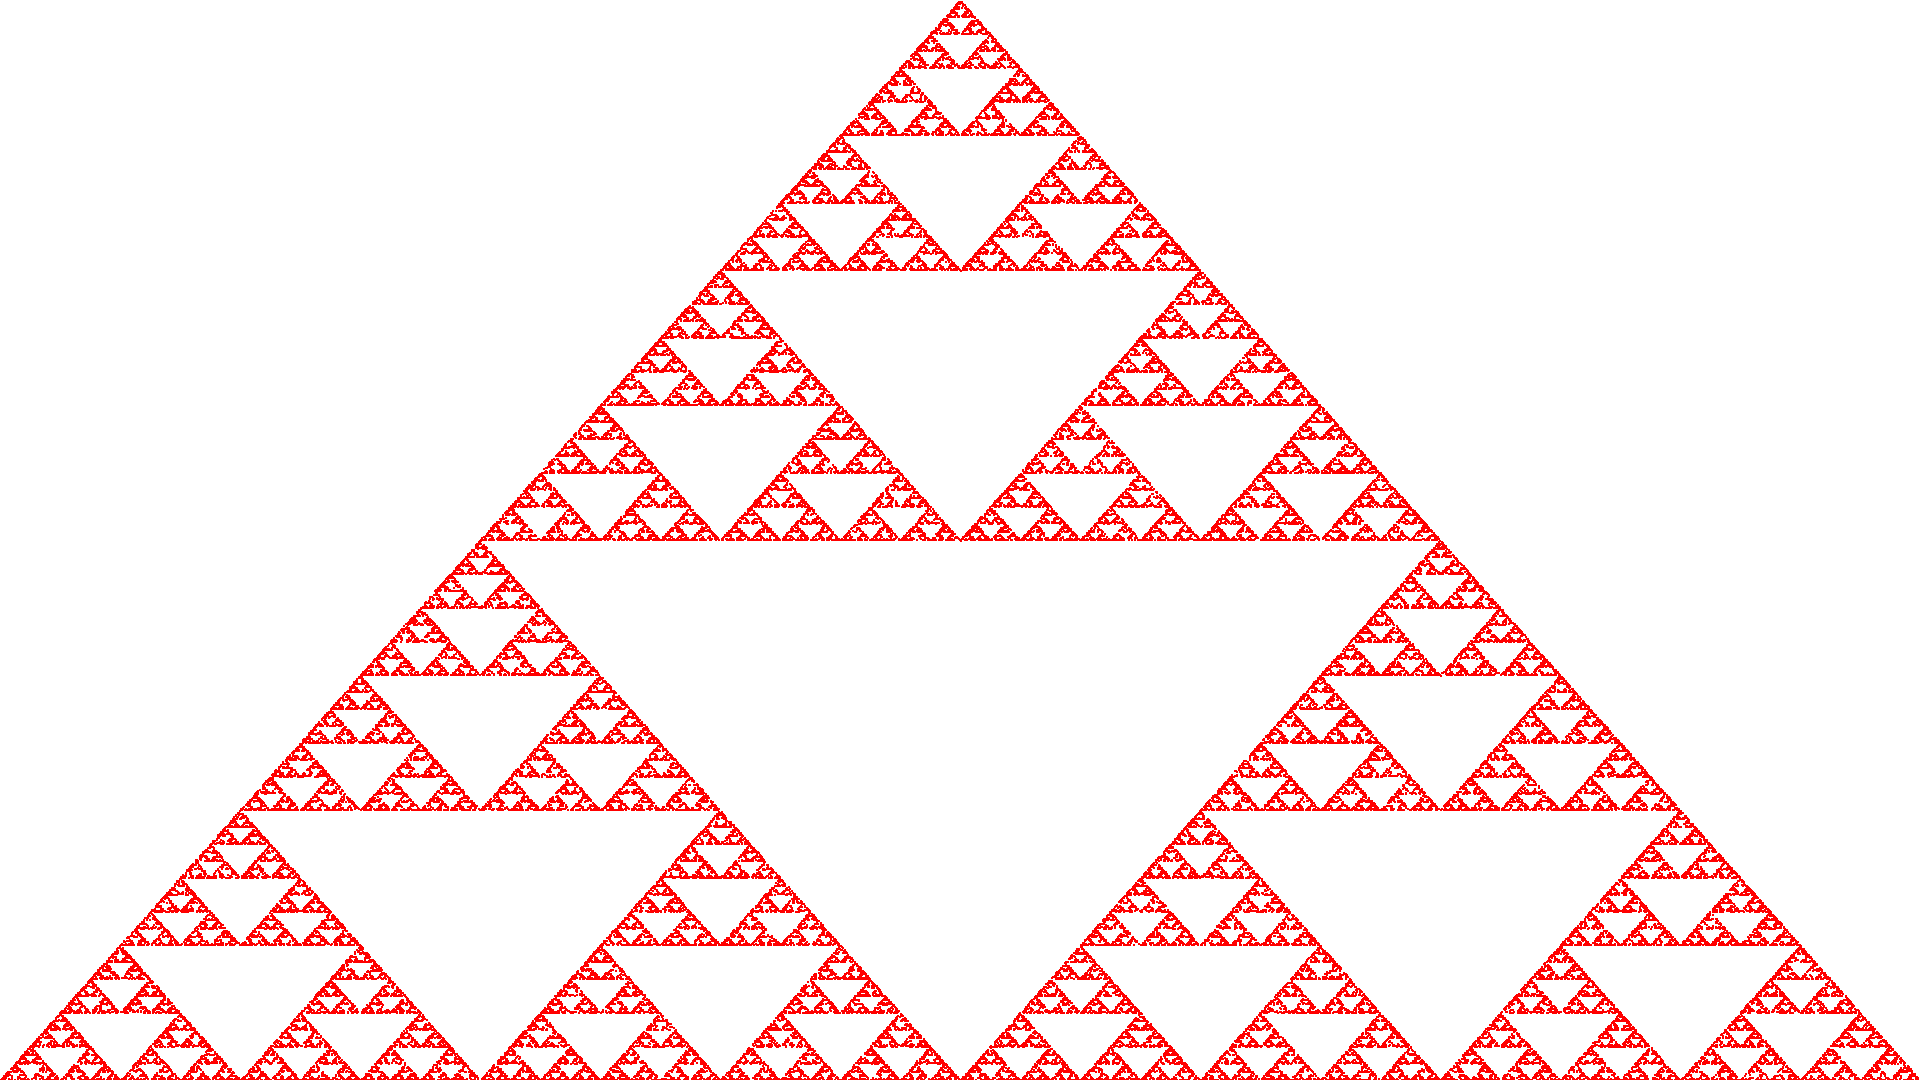
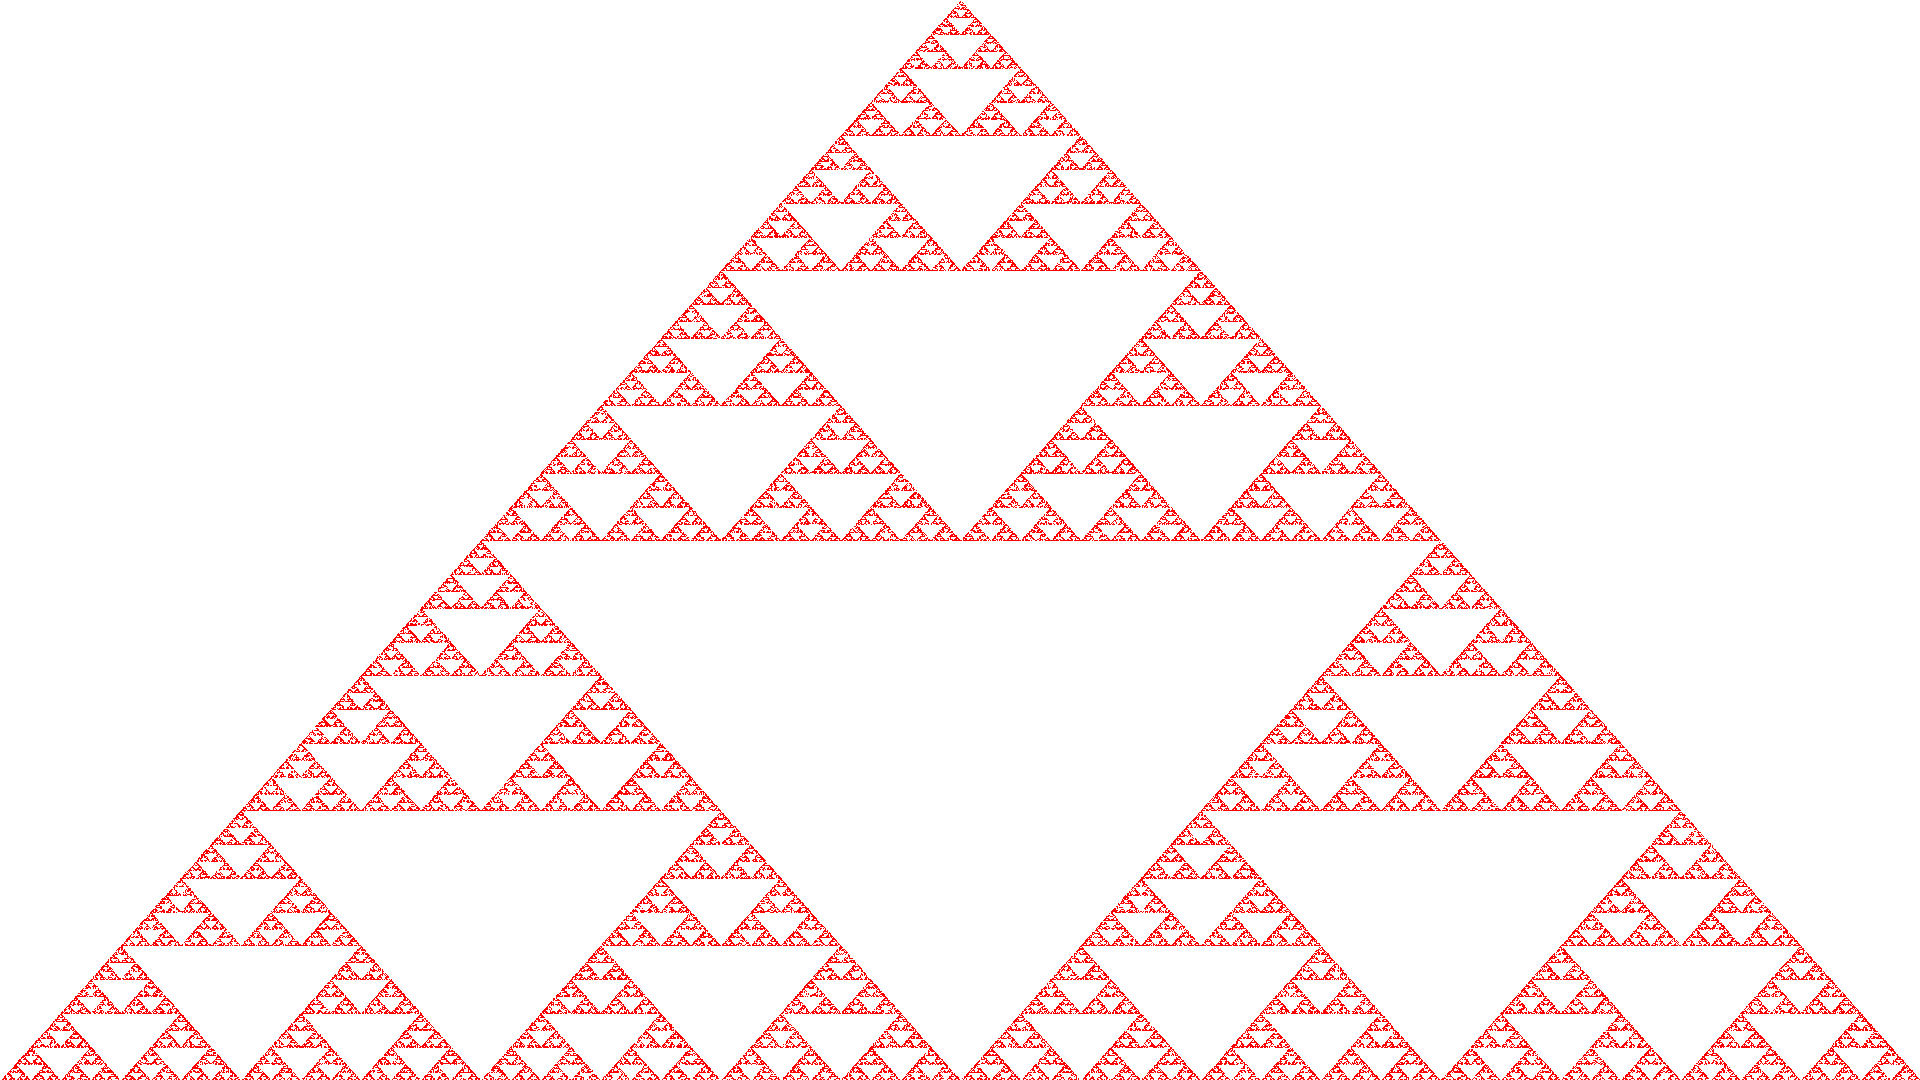
Added new job examples and commands

Changed region(s): [[0.0, 0.0306, 1.0, 1.0]]

diff --git a/src/cli/command/StartCommand.java b/src/cli/command/StartCommand.java
@@ -37,6 +37,11 @@ public class StartCommand implements CLICommand{
         ArrayList<Job> jobs = (ArrayList<Job>) AppConfig.getJobList();
 
         Job job = jobs.get(0);
+        Job job2 = jobs.get(1);
+        Job job3 = jobs.get(2);
+        Job job4 = jobs.get(3);
+
+
         ActiveJob activeJob = new ActiveJob();
 
         activeJob.setActive(true);
@@ -48,8 +53,55 @@ public class StartCommand implements CLICommand{
 
         activeJob.setSection(section);
 
-        FractalWorker fractalWorker = new FractalWorker(activeJob,"");
-        fractalWorker.run();
+
+        ActiveJob activeJob2 = new ActiveJob();
+
+        activeJob2.setActive(true);
+        activeJob2.setJob(job2);
+
+        Section section2 = new Section();
+        section2.setDepth(1);
+        section2.setDots(job2.getA());
+
+        activeJob2.setSection(section2);
+
+
+        ActiveJob activeJob3 = new ActiveJob();
+
+        activeJob3.setActive(true);
+        activeJob3.setJob(job3);
+
+        Section section3 = new Section();
+        section3.setDepth(1);
+        section3.setDots(job3.getA());
+
+        activeJob3.setSection(section3);
+
+
+
+        ActiveJob activeJob4 = new ActiveJob();
+
+        activeJob4.setActive(true);
+        activeJob4.setJob(job4);
+
+        Section section4 = new Section();
+        section4.setDepth(1);
+        section4.setDots(job4.getA());
+
+        activeJob4.setSection(section4);
+
+
+
+
+        FractalWorker fractalWorker1 = new FractalWorker(activeJob,"");
+        FractalWorker fractalWorker2 = new FractalWorker(activeJob2,"");
+        FractalWorker fractalWorker3 = new FractalWorker(activeJob3,"");
+        FractalWorker fractalWorker4 = new FractalWorker(activeJob4,"");
+
+        fractalWorker1.run();
+        fractalWorker2.run();
+        fractalWorker3.run();
+        fractalWorker4.run();
 
     }
 }

diff --git a/src/servent/workers/FractalWorker.java b/src/servent/workers/FractalWorker.java
@@ -63,8 +63,8 @@ public class FractalWorker implements Runnable, Cancellable {
             Dot randomDot = dotsList.get(rand.nextInt(dotsList.size()));
 
             // (1-l)A + (l)B    //l=distance
-            int newX = (int) ((1-p)*currentDot.getX() + p*randomDot.getX());
-            int newY = (int) ((1-p)*currentDot.getY() + p*randomDot.getY());
+            int newX = (int) ((1-p)*randomDot.getX() + p*currentDot.getX());
+            int newY = (int) ((1-p)*randomDot.getY() + p*currentDot.getY());
 
             currentDot.setX(newX);
             currentDot.setY(newY);
@@ -73,7 +73,7 @@ public class FractalWorker implements Runnable, Cancellable {
 
 
 
-            if(tempCounter==100000)stop();
+            if(tempCounter==200000)stop();
             tempCounter++;
 
         }
@@ -94,7 +94,7 @@ public class FractalWorker implements Runnable, Cancellable {
         graphics2D.fillRect ( 0,0,1920,1080 );
         graphics2D.setPaint ( Color.RED );
         for(Dot d:filledDotList){
-            graphics2D.drawRect ( d.getX(), d.getY(), 1, 1 );
+            graphics2D.drawOval ( d.getX(), d.getY(), 1, 1 );
         }
 
         graphics2D.dispose ();

diff --git a/src/cli/CLIParser.java b/src/cli/CLIParser.java
@@ -39,7 +39,12 @@ public class CLIParser implements Runnable, Cancellable {
 		commandList.add(new InfoCommand());
 		commandList.add(new PauseCommand());
 		commandList.add(new StopCommand(this, listener));
+
 		commandList.add(new StartCommand());
+		commandList.add(new StatusCommand());
+		commandList.add(new ResultCommand());
+		commandList.add(new StopFractalCommand());
+		commandList.add(new QuitCommand());
 	}
 	
 	@Override

diff --git a/src/cli/command/StopFractalCommand.java b/src/cli/command/StopFractalCommand.java
@@ -1,0 +1,13 @@
+package cli.command;
+
+public class StopFractalCommand implements CLICommand{
+    @Override
+    public String commandName() {
+        return "stopfractal";
+    }
+
+    @Override
+    public void execute(String args) {
+
+    }
+}

diff --git a/src/cli/command/ResultCommand.java b/src/cli/command/ResultCommand.java
@@ -1,0 +1,13 @@
+package cli.command;
+
+public class ResultCommand implements CLICommand{
+    @Override
+    public String commandName() {
+        return "result";
+    }
+
+    @Override
+    public void execute(String args) {
+
+    }
+}

diff --git a/src/cli/command/StatusCommand.java b/src/cli/command/StatusCommand.java
@@ -1,0 +1,13 @@
+package cli.command;
+
+public class StatusCommand implements CLICommand{
+    @Override
+    public String commandName() {
+        return "status";
+    }
+
+    @Override
+    public void execute(String args) {
+
+    }
+}

diff --git a/src/cli/command/QuitCommand.java b/src/cli/command/QuitCommand.java
@@ -1,0 +1,13 @@
+package cli.command;
+
+public class QuitCommand implements CLICommand{
+    @Override
+    public String commandName() {
+        return "quit";
+    }
+
+    @Override
+    public void execute(String args) {
+
+    }
+}
